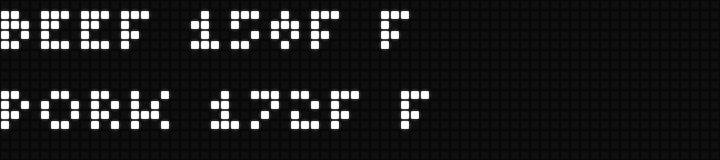
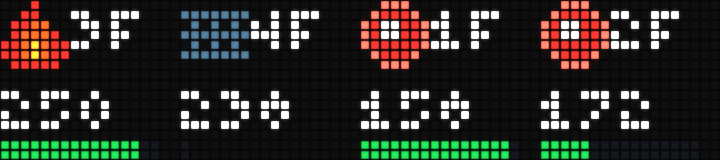
feat(fireboard): render anchored pixel-art temperature tiles

diff --git a/apps/fireboard/app.py b/apps/fireboard/app.py
@@ -91,8 +91,8 @@ def parse(data, config, now):
         if len(limits) == 2 and limits[0][1] >= limits[1][1]:
             raise ValueError("lower must be less than upper")
         probes.append(Probe(label[:4], role, temp, stale, targets, baseline, limits))
-    if not probes:
-        raise ValueError("configure at least one visible channel")
+    if not probes or len(probes) > 99:
+        raise ValueError("configure 1 to 99 visible channels")
     return probes
 
 
@@ -111,10 +111,10 @@ def milestone(probe):
 def proximity(probe, unit):
     if probe.stale or probe.temp is None:
         return "--", 0
-    if probe.limits:
-        gaps = [(probe.temp - t if direction == "LO" else t - probe.temp, direction, t)
-                for direction, t in probe.limits]
-        gap, direction, target = min(gaps)
+    high = [t for direction, t in probe.limits if direction == "HI"]
+    if high:
+        target, direction = high[0], "HI"
+        gap = target - probe.temp
         progress = max(0, min(1, 1 - max(0, gap) / max(1, abs(target - probe.baseline))))
         return (f"{direction} HIT" if gap <= 0 else
                 f"{direction} {'<1' if gap < 1 else display_number(gap)}{unit}"), progress
@@ -133,38 +133,101 @@ def display_number(value):
     return f"{value:.0f}" if -999 <= value <= 9999 else "OVR"
 
 
-def render(probes, unit, page):
-    # Overview pairs followed by one detail page per probe. All text <=18 tiny glyphs.
-    overview_count = (len(probes) + 1) // 2
-    page %= overview_count + len(probes)
+BLACK, TRACK = "#000000FF", "#223344FF"
+# Original seven-pixel sprites, using the same crisp rectangle aesthetic as robots.
+SPRITES = {
+    "pit": ("...r...", "..rr...", ".rroo..", ".rooor.", "rroyorr", "rroyorr", ".rrrrr."),
+    "food": ("..ppp..", ".prrrp.", "prwwrrp", "prwwrrp", "prrrrrp", ".prrrp.", "..ppp.."),
+    "grate": (".......", "sssssss", ".s.s.s.", "sssssss", ".s.s.s.", "sssssss", "......."),
+}
+PALETTE = {".": BLACK, "r": "#EF553FFF", "o": "#FF9900FF",
+           "y": "#FFDD55FF", "p": "#FFAA99FF", "w": WHITE, "s": "#88AABBFF"}
+
+
+def rectangle(eid, x, y, width, height, color):
+    return dict(id=eid, type="rectangle", x=x, y=y, width=width, height=height,
+                border_width=0, fill="solid", fill_colors=[color])
+
+
+def elapsed_label(elapsed):
+    minutes = max(0, int(elapsed)) // 60
+    return f"{minutes // 60:02}:{minutes % 60:02}" if minutes < 6000 else "99h+"
+
+
+def tile_sources(probes, page):
+    pits = [p for p in probes if p.role == "pit"]
+    ambient = [p for p in probes if p.role == "grate"] + pits[1:]
+    foods = [p for p in probes if p.role == "food"]
+    capacity = 2 if ambient else 3
+    pages = max(1, (len(foods) + capacity - 1) // capacity)
+    start = (page % pages) * capacity
+    # Extra ambient sources rotate independently; the primary pit never moves.
+    return ([pits[0] if pits else None] +
+            ([ambient[page % len(ambient)]] if ambient else []) +
+            foods[start:start + capacity])
+
+
+def render(probes, unit, page, elapsed=0, error=None):
+    """Four 18px tiles, fixed IDs/types (including blanks) for retained firmware."""
+    sources = tile_sources(probes, page)
     elements = []
-    if page < overview_count:
-        for i, probe in enumerate(probes[page * 2:page * 2 + 2]):
-            value = "--" if probe.temp is None else f"{display_number(probe.temp)}{unit}"
-            flag = "OLD" if probe.stale else "OFF" if probe.temp is None else probe.role[:1].upper()
-            elements.append(text(str(i), f"{probe.label} {value} {flag}", 0, i * 8,
-                                 AMBER if probe.stale else RED if probe.temp is None else WHITE))
-    else:
-        probe = probes[page - overview_count]
-        proximity_text, progress = proximity(probe, unit)
-        value = "--" if probe.temp is None else f"{display_number(probe.temp)}{unit}"
-        elements.append(text("0", f"{probe.label} {value}", 0, 0))
-        status = "STALE" if probe.stale else "DISCONNECTED" if probe.temp is None else (
-            proximity_text)
-        elements.append(text("1", status, 0, 7, AMBER if probe.stale else GREEN))
-        elements.append(dict(id="2", type="rectangle", x=0, y=14, width=72, height=2,
-                             border_width=0, fill="solid", fill_colors=["#223344FF"]))
-        elements.append(dict(id="3", type="rectangle", x=0, y=14, width=max(1, round(72 * progress)),
-                             height=2, border_width=0, fill="solid",
-                             fill_colors=[GREEN if progress else "#223344FF"]))
-    if page < overview_count:
-        if len(elements) == 1:
-            elements.append(text("1", "", 0, 8))
-        # Firmware retains element IDs between draws: erase previous detail bars.
-        for eid in ("2", "3"):
-            elements.append(dict(id=eid, type="rectangle", x=0, y=14,
-                                 width=72, height=2, border_width=0,
-                                 fill="solid", fill_colors=["#000000FF"]))
+    for slot in range(4):
+        x, prefix = slot * 18, f"t{slot}"
+        probe = sources[slot] if slot < len(sources) else None
+        sprite = SPRITES[probe.role] if probe and not error else (".......",) * 7
+        unavailable = probe is not None and probe.temp is None
+        stale = probe is not None and probe.stale and not unavailable
+        color = RED if unavailable or error else AMBER if stale else WHITE
+        elements.append(rectangle(prefix + "bg", x, 0, 18, 16, BLACK))
+        runs = []
+        for y, row in enumerate(sprite):
+            dx = 0
+            while dx < 7:
+                end = dx + 1
+                while end < 7 and row[end] == row[dx]:
+                    end += 1
+                if row[dx] != ".":
+                    ink = "#775522FF" if stale else PALETTE[row[dx]]
+                    previous = next((i for i, r in enumerate(runs)
+                                     if r[0] == x + dx and r[2] == end - dx
+                                     and r[4] == ink and r[1] + r[3] == y), None)
+                    if previous is not None:
+                        rx, ry, rw, rh, _ = runs[previous]
+                        runs[previous] = (rx, ry, rw, rh + 1, ink)
+                    else:
+                        runs.append((x + dx, y, end - dx, 1, ink))
+                dx = end
+        assert len(runs) <= 19, "sprite exceeds element budget"
+        for i in range(19):
+            rx, ry, width, height, ink = runs[i] if i < len(runs) else (x, 0, 1, 1, "#00000000")
+            elements.append(rectangle(f"{prefix}p{i}", rx, ry, width, height, ink))
+        index = str(next((i + 1 for i, p in enumerate(probes) if p is probe), 0))
+        badge = (index if len(index) <= 2 else "+") + unit if probe else ""
+        value = "--" if unavailable else display_number(probe.temp) if probe else ""
+        if error:
+            badge, value = "", (error[:18] if slot == 3 else "")
+        elif stale:
+            badge = index + "!"
+        elif probe is None and slot == 3:
+            badge, value = "T", elapsed_label(elapsed)
+        elements.append(text(prefix + "id", badge, x + 7, 0, color))
+        # A 5-glyph timer uses the entire final tile only with a compact font.
+        if len(value) > 4 and not error:
+            value = value.replace(":", "")  # HHMM; T badge identifies elapsed hours/minutes
+        elements.append(text(prefix + "v", value, 0 if error else x, 8, color))
+        status, progress = proximity(probe, unit) if probe and not error else ("", 0)
+        bar_color = RED if "HIT" in status or status == "DONE" else GREEN
+        track = TRACK if probe and not error else BLACK
+        width, ink = round(16 * progress), bar_color
+        height = 2
+        if unavailable or stale:
+            width, ink, height = 16, color, 1  # hairline, never a live filled bar
+        elif status == "NO TARGET":
+            width, ink = 1, TRACK
+            track = BLACK
+        elements.append(rectangle(prefix + "b0", x, 14, 16, 2, track))
+        elements.append(rectangle(prefix + "b1", x, 14, max(1, width), height,
+                                  ink if width else track))
     return elements
 
 
@@ -344,23 +407,20 @@ def main():
     cloud = CloudSource(config) if args.cloud else None
     signal.signal(signal.SIGTERM, lambda *_: sys.exit(0))
     page = 0
+    started = time.monotonic()
     try:
         while True:
             try:
                 now = time.time()
                 data = cloud.read() if cloud else load_source(args.source) if args.source else demo(now)
                 probes = parse(data, config, now)
-                elements = render(probes, config.get("unit", "F"), page)
+                elements = render(probes, config.get("unit", "F"), page, time.monotonic() - started)
                 if cloud and cloud.status != "OK":
                     raise ValueError("cloud unavailable")
             except (OSError, ValueError, KeyError, TypeError):
                 # Never display cached readings as current after an ingestion error.
-                elements = [text("0", cloud.status if cloud and cloud.status != "OK" else "SOURCE ERROR", 0, 0, RED),
-                            text("1", "CHECK INPUT", 0, 8, AMBER)]
-                for eid in ("2", "3"):
-                    elements.append(dict(id=eid, type="rectangle", x=0, y=14,
-                                         width=72, height=2, border_width=0,
-                                         fill="solid", fill_colors=["#000000FF"]))
+                elements = render([], config.get("unit", "F"), page,
+                                  error=cloud.status if cloud and cloud.status != "OK" else "SOURCE ERROR")
             try:
                 send(args.host, elements)
             except (OSError, ValueError):

diff --git a/apps/fireboard/test_tiles.py b/apps/fireboard/test_tiles.py
@@ -1,0 +1,94 @@
+import copy
+import unittest
+import app
+
+
+class TileTests(unittest.TestCase):
+    def setUp(self):
+        self.probes = app.parse(app.demo(1000), app.DEMO_CONFIG, 1000)
+
+    def test_pagination_and_anchor(self):
+        foods = [copy.deepcopy(self.probes[0]) for _ in range(7)]
+        probes = self.probes[2:] + foods
+        seen = set()
+        for page in range(4):
+            tiles = app.tile_sources(probes, page)
+            self.assertIs(tiles[0], probes[0])
+            self.assertIs(tiles[1], probes[1])
+            seen.update(id(p) for p in tiles[2:])
+        self.assertEqual(seen, {id(p) for p in foods})
+        self.assertNotEqual(app.SPRITES['grate'], app.SPRITES['pit'])
+
+    def test_bounds_and_retained_ids(self):
+        baseline = None
+        for unit in ('F', 'C'):
+            for value in (-999, -10, 0, 203, 9999, 1e20, None):
+                self.probes[0].temp = value
+                for page in range(6):
+                    elements = app.render(self.probes, unit, page, 3660)
+                    ids = {e['id']: e['type'] for e in elements}
+                    baseline = baseline or ids
+                    self.assertEqual(ids, baseline)
+                    self.assertLessEqual(len(ids), 100)
+                    for e in elements:
+                        width = e.get('width', max(1, len(e.get('text', ''))) * 4 - 1)
+                        height = e.get('height', 5)
+                        self.assertLessEqual(e['x'] + width, 72)
+                        self.assertLessEqual(e['y'] + height, 16)
+        self.assertEqual({e['id']: e['type'] for e in app.render([], 'F', 0, error='AUTH')}, baseline)
+
+    def test_high_not_low(self):
+        pit = self.probes[2]
+        pit.temp = 226
+        status, progress = app.proximity(pit, 'F')
+        self.assertEqual(status, 'HI 49F')
+        self.assertLess(progress, 1)
+        for temp in (275, 280):
+            pit.temp = temp
+            self.assertEqual(app.proximity(pit, 'F'), ('HI HIT', 1))
+        pit.limits = [('LO', 225)]
+        self.assertEqual(app.proximity(pit, 'F'), ('NO TARGET', 0))
+
+    def test_milestone_and_invalid_bars(self):
+        p = self.probes[0]
+        for temp, expected in ((164, 'M +1F'), (165, 'M HIT'), (204, 'DONE')):
+            p.temp = temp
+            self.assertEqual(app.proximity(p, 'F')[0], expected)
+        for stale, value in ((True, 160), (False, None)):
+            p.stale, p.temp = stale, value
+            elements = app.render([p], 'F', 0)
+            bars = [e for e in elements if e['id'].startswith('t1b')]
+            self.assertNotIn(app.GREEN, str(bars))
+            self.assertEqual(app.proximity(p, 'F'), ('--', 0))
+        p.stale, p.temp = True, 160
+        self.assertIn('1!', str(app.render([p], 'F', 0)))
+        p.temp = None
+        self.assertIn('--', str(app.render([p], 'F', 0)))
+
+    def test_complete_sprites(self):
+        # Rasterize emitted rectangles to catch truncation when optimizing ID budget.
+        for role, sprite in app.SPRITES.items():
+            probe = copy.deepcopy(self.probes[0])
+            probe.role = role
+            slot = 0 if role == 'pit' else 1
+            canvas = {}
+            for e in app.render([probe], 'F', 0):
+                if not e['id'].startswith(f't{slot}p'):
+                    continue
+                ink = e['fill_colors'][0]
+                if ink == '#00000000':
+                    continue
+                for y in range(e['y'], e['y'] + e['height']):
+                    for x in range(e['x'], e['x'] + e['width']):
+                        canvas[x - slot * 18, y] = ink
+            for y, row in enumerate(sprite):
+                for x, pixel in enumerate(row):
+                    self.assertEqual(canvas.get((x, y), app.BLACK), app.PALETTE[pixel])
+
+    def test_elapsed(self):
+        self.assertEqual(app.elapsed_label(0), '00:00')
+        self.assertEqual(app.elapsed_label(3660), '01:01')
+        self.assertEqual(app.elapsed_label(360000), '99h+')
+        self.assertIn('0101', str(app.render(self.probes[:1], 'F', 0, 3660)))
+        self.assertNotIn('0101', str(app.render(self.probes, 'F', 0, 3660)))
+        self.assertEqual(app.render(self.probes, 'F', 0, 123), app.render(self.probes, 'F', 0, 123))

diff --git a/apps/fireboard/test_standalone.py b/apps/fireboard/test_standalone.py
@@ -54,7 +54,8 @@ class StandaloneTests(unittest.TestCase):
                 self.assertEqual(requests, [])
                 for args in [[], ['--demo']]:
                     run(*args, '--test', '--host', host)
-                    self.assertIn('BEEF 158F', str(requests[-2]))
+                    self.assertIn("'text': '158'", str(requests[-2]))
+                    self.assertIn("'text': '1F'", str(requests[-2]))
                     self.assertEqual(requests[-1][0], 'DELETE')
                 config = copy.deepcopy(app.DEMO_CONFIG)
                 config['unit'] = 'C'
@@ -67,11 +68,12 @@ class StandaloneTests(unittest.TestCase):
                     settings['targets'] = [app.convert(t, 'F', 'C') for t in settings.get('targets', [])]
                 config_path.write_text(json.dumps(config))
                 run('--demo', '--config', str(config_path), '--test', '--host', host)
-                self.assertIn('BEEF 70C', str(requests[-2]))
+                self.assertIn("'text': '70'", str(requests[-2]))
+                self.assertIn("'text': '1C'", str(requests[-2]))
                 data_path = Path(directory) / 'input.json'
                 data_path.write_text(json.dumps(app.demo(0)))
                 run('--source', str(data_path), '--config', str(config_path), '--test', '--host', host)
-                self.assertIn('OLD', str(requests[-2]))
+                self.assertIn("'text': '1!'", str(requests[-2]))
             finally:
                 server.shutdown()
                 worker.join()

diff --git a/apps/fireboard/test_app.py b/apps/fireboard/test_app.py
@@ -67,9 +67,8 @@ class Tests(unittest.TestCase):
                 self.assertTrue(0 <= e['x'] < 72 and 0 <= e['y'] < 16)
                 if e['type'] == 'text':
                     self.assertLessEqual(len(e['text']), 18)
-        self.assertIn('M +7F', str(app.render(probes, 'F', 2)))
-        probes[0].stale = True
-        self.assertIn('STALE', str(app.render(probes, 'F', 2)))
+        self.assertEqual(app.tile_sources(probes, 0)[0].role, 'pit')
+        self.assertEqual(app.tile_sources(probes, 0)[1].role, 'grate')
 
     @patch('app.urllib.request.urlopen')
     def test_http_display(self, call):
@@ -116,14 +115,14 @@ class Tests(unittest.TestCase):
     def test_source_error_and_cleanup(self, load, send):
         app.main()
         self.assertIn('SOURCE ERROR', str(send.call_args_list[0]))
-        self.assertEqual(len(send.call_args_list[0].args[1]), 4)
+        self.assertEqual(len(send.call_args_list[0].args[1]), len(app.render([], 'F', 0)))
         self.assertEqual(send.call_args_list[-1].args, ('10.0.4.20',))
 
     def test_odd_overview_and_overflow(self):
         probes = self.probes()[:1]
         probes[0].temp = 1e100
         elements = app.render(probes, 'F', 0)
-        self.assertEqual({e['id'] for e in elements}, {'0', '1', '2', '3'})
+        self.assertEqual(len({e['id'] for e in elements}), len(elements))
         self.assertIn('OVR', str(elements))
 
     @patch('builtins.open', return_value=io.StringIO('{"channels": []}'))

diff --git a/apps/fireboard/test_cloud.py b/apps/fireboard/test_cloud.py
@@ -109,7 +109,7 @@ class CloudTests(unittest.TestCase):
     def test_proximity(self):
         p = app.Probe('PIT', 'pit', 250, False, [], 32, [('LO', 225), ('HI', 275)])
         self.assertEqual(app.proximity(p, 'F')[0], 'HI 25F')
-        for temp, expected in [(225, 'LO HIT'), (200, 'LO HIT'), (275, 'HI HIT'), (300, 'HI HIT'), (274.9, 'HI <1F')]:
+        for temp, expected in [(225, 'HI 50F'), (200, 'HI 75F'), (275, 'HI HIT'), (300, 'HI HIT'), (274.9, 'HI <1F')]:
             p.temp = temp
             self.assertEqual(app.proximity(p, 'F')[0], expected)
         p.stale = True

diff --git a/apps/fireboard/README.md b/apps/fireboard/README.md
@@ -101,18 +101,39 @@ units, session applicability, schedule and buffer behavior cannot safely be prov
 from arbitrary historic alert metadata. Keep the official app as alerting authority.
 No alert writes, notifications, ETA prediction, BLE or direct device control.
 
-Overview pages show two temperatures and role F/P/G (or OLD/OFF). Detail pages
-show current temperature, gap in degrees and a proximity graph for that probe.
-`LO` = configured lower limit (reading minus limit); `HI` = configured upper limit
-(limit minus reading). Nearest boundary wins, breached boundary takes precedence;
-at or beyond either boundary **HIT** is inclusive. If limits exist, they take display
-precedence over heating milestones. `M +7F` means seven degrees to the next heating
-milestone; `M HIT` holds at exact equality instead of silently advancing. Above the
-last milestone shows DONE. Positive gaps under one degree show `<1`, not HIT.
-Bar progress approaches the boundary relative to baseline; it is not a time graph
-or notification countdown. No limits/milestones shows NO TARGET; stale/unavailable
-readings have no gap/progress. Pages rotate through overview pairs and every probe,
-including separately labeled pit/grate pages. Ambient values are not pinned.
+The default view is four 18-pixel tiles: original 7×7 flame (pit) anchored at
+x=0, a distinct grate icon at x=18 when configured, then steak icons for food.
+Each tile has a small **1-based visible config-order index plus F/C** beside the
+icon, numeric temperature beneath, and a 16×2 proximity bar. Index is not a cloud
+port: use config order to identify probes, including across food pages. Configuration accepts
+at most 99 visible channels for unambiguous two-digit indices. Missing pit leaves
+the left slot empty rather than relabeling food as pit. Numbers round to integer;
+-999 through 9999 fit, otherwise OVR. No long labels obscure the icons.
+
+Only food slots paginate (two per page with grate, three without), every
+`--interval` seconds, wrapping in config order. Pit never moves. Multiple grates
+or additional pit sources rotate independently through the distinct ambient slot;
+none are silently dropped. Their indices and icons identify each measured source.
+An otherwise unused far-right tile shows T and compact **HHMM** elapsed app-tracking
+time (e.g. 0105 = 1h05m). It uses monotonic time since process tracking began,
+resets on restart, and caps at `99h+` after 99:59. This is **not a cloud cook-session
+timer**. It is omitted on full pages to prioritize probe readability.
+
+Bars always mean **high-temperature proximity**, never nearest/low boundary.
+An explicit `upper` takes precedence; `lower` is retained configuration but is not
+visualized as a heating goal. Without upper, the next inclusive heating target is
+used: equality holds that milestone rather than silently advancing. Between targets
+the progress baseline is the previous target; for upper it is configured baseline.
+Progress is clamped 0–1. Green fill approaches the high goal; a full **red** bar
+marks equality/crossing (or completion above the final target). After crossing an
+intermediate milestone the next one becomes the goal. Endpoints only mean no high
+target; no notifications are sent or implied.
+
+Stale numeric values are amber with a dim icon and index+`!` badge; unavailable
+values are red `--`. Both replace the filled bar with a thin colored hairline,
+never stale progress. Source errors clear all tile elements and display the error
+instead. All 96 element IDs/types are reused across pages, blanks and errors to
+avoid retained-element ghosts and stay below firmware's 100-element limit.
 This is a visual monitor, not a safety alarm or claim that a notification fired.
 
 ## Verification
